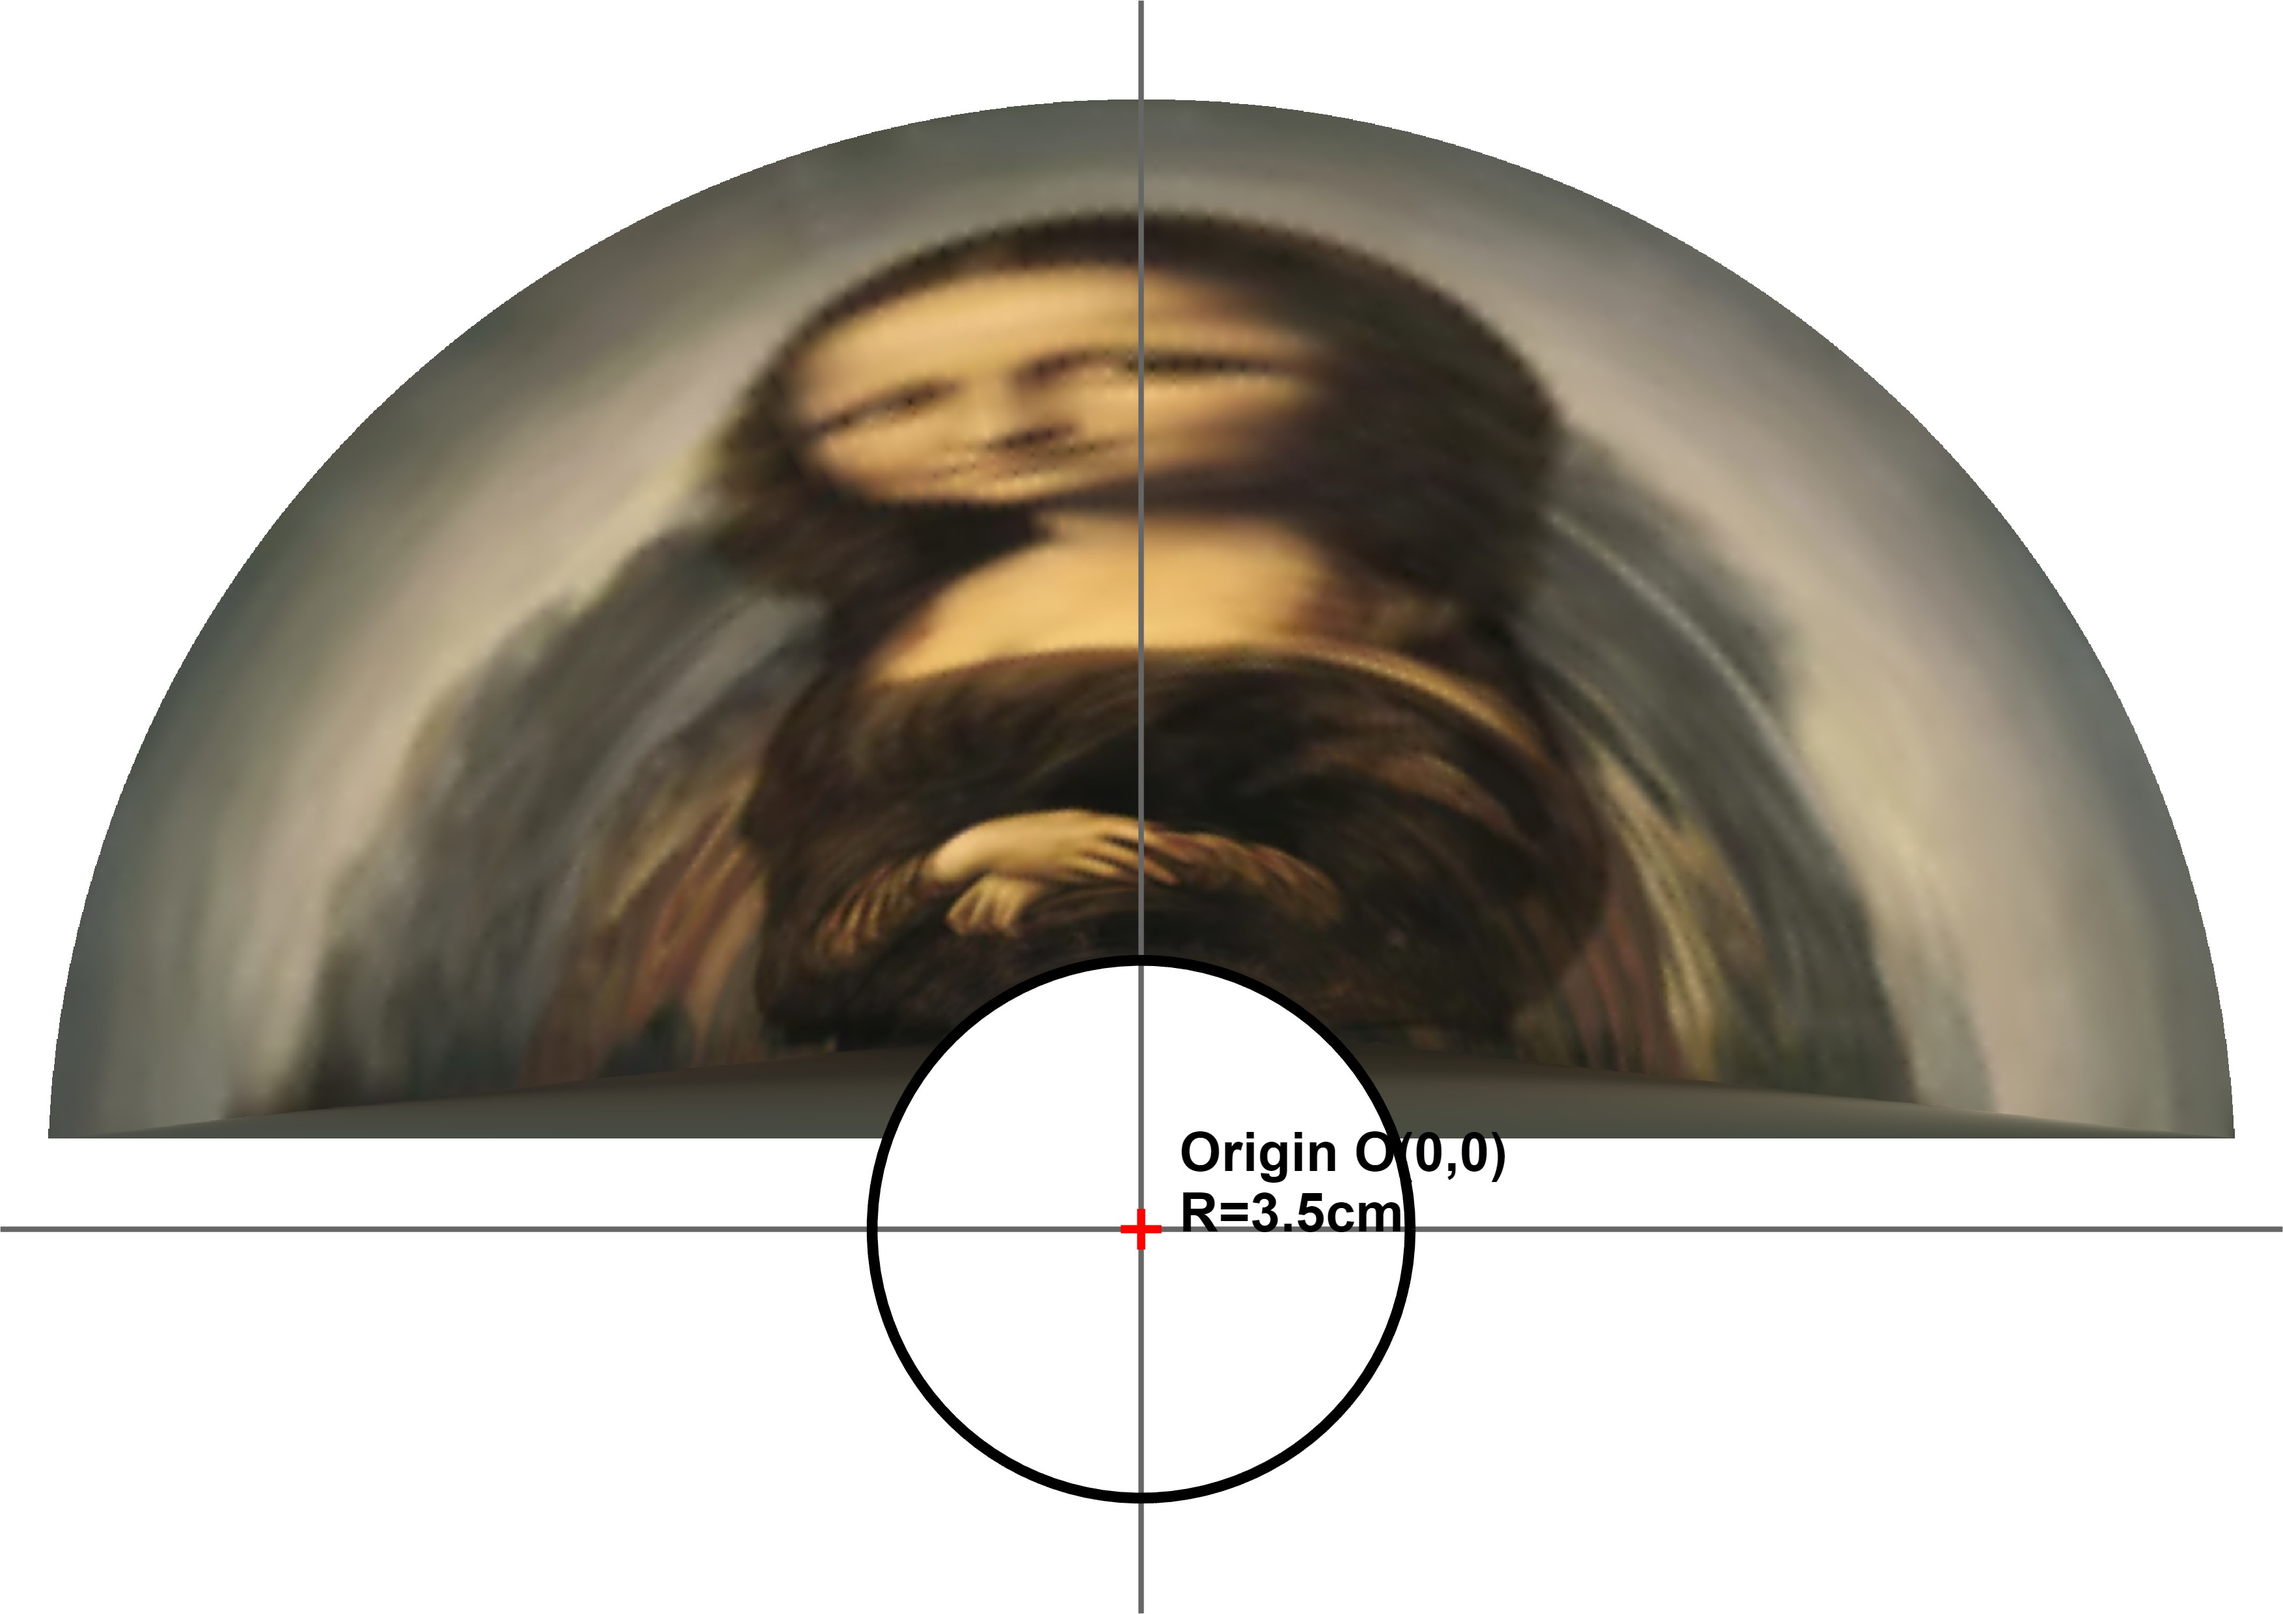
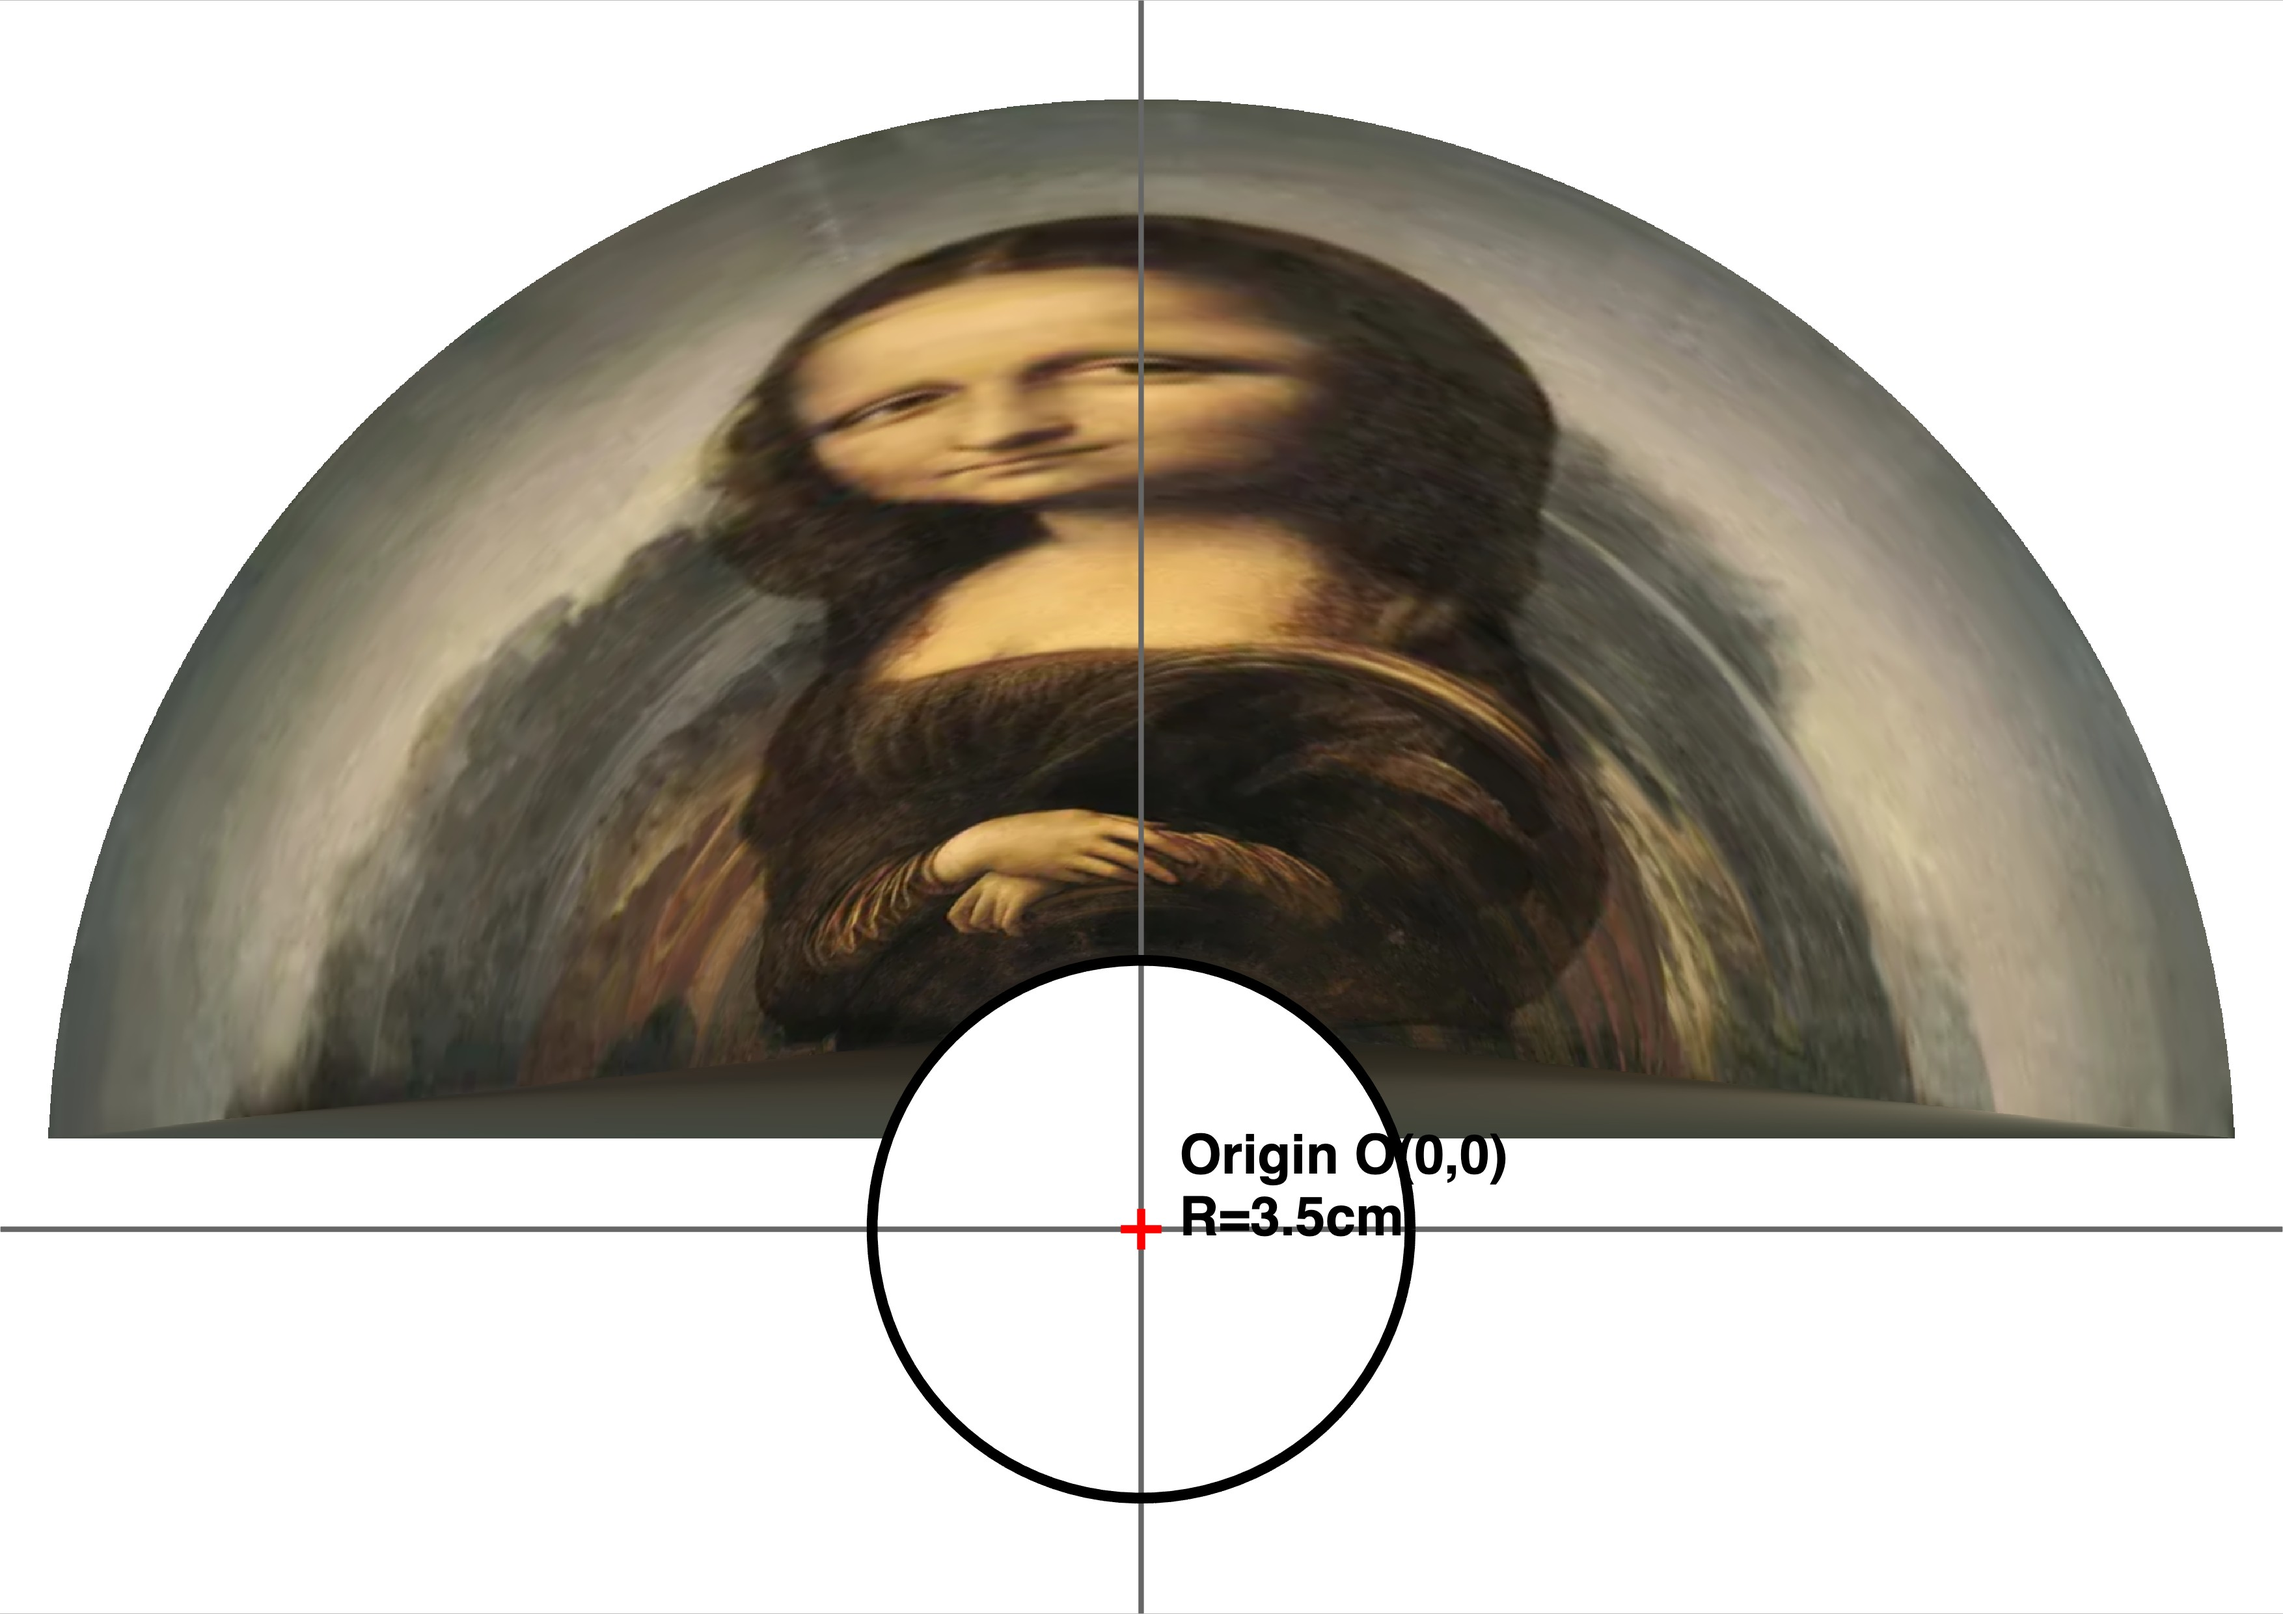
[Q1][render] 本地跑出新渲染图：蒙娜丽莎(600×400)、小猫(90°,400×300)

diff --git a/src/q1/p4_2D.m b/src/q1/p4_2D.m
@@ -7,7 +7,7 @@ function generate_cat_perfect_layout()
     z_min = 0.2; z_max = 9.0;
     theta_max = pi / 2;        % 90度张角（角度放大效应适用范围内）
 
-    img = imread('cat.jpg');
+    img = imread('/Users/zhangchunhe/Desktop/mathmodel/data/reference/图4.png');
     img = im2double(img);
 
     % 2. 映射计算
@@ -87,7 +87,7 @@ function generate_cat_perfect_layout()
     text(2900, px_y - 30, 'X', 'FontSize', 22, 'Color', axis_color, 'FontWeight', 'bold');
     text(px_x + 30, 40, 'Y', 'FontSize', 22, 'Color', axis_color, 'FontWeight', 'bold');
     
-    print(f, 'output_cat_perfect_matlab.jpg', '-djpeg', '-r300');
+    print(f, '/Users/zhangchunhe/Desktop/mathmodel/outputs/figures/draft/p4_2D_matlab.jpg', '-djpeg', '-r300');
     close(f);
     disp('成功！已生成 90° 张角小猫图纸（应呈漂亮半环）！');
 end

diff --git a/src/q1/p3_2D.m b/src/q1/p3_2D.m
@@ -4,7 +4,7 @@ function generate_monalisa_perfect_layout()
     z_min = 0.2; z_max = 12.0; % 紧贴底面起步
     theta_max = pi / 2;
     
-    img = imread('monalisa.jpg');
+    img = imread('/Users/zhangchunhe/Desktop/mathmodel/data/reference/图3.png');
     img = im2double(img);
     
     % 2. 映射计算
@@ -72,7 +72,7 @@ function generate_monalisa_perfect_layout()
     
     text(px_x + 50, px_y - 60, sprintf('Origin O(0,0)\nR=%.1fcm', R), 'FontSize', 20, 'Color', 'k', 'FontWeight', 'bold');
     
-    print(f, 'output_monalisa_perfect_matlab.jpg', '-djpeg', '-r300');
+    print(f, '/Users/zhangchunhe/Desktop/mathmodel/outputs/figures/draft/p3_2D_matlab.jpg', '-djpeg', '-r300');
     close(f);
     disp('成功！已生成完美排版的图纸！');
 end
